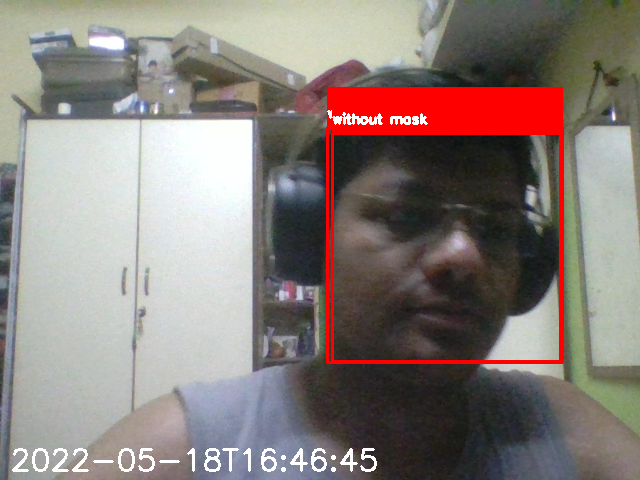
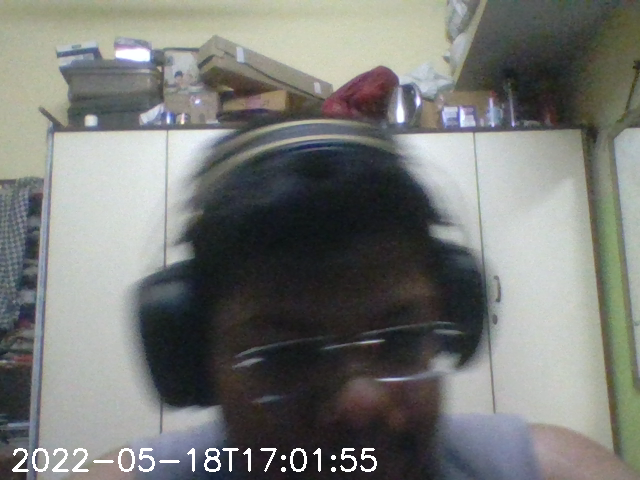
added mask and face counting

diff --git a/utils.py b/utils.py
@@ -2,6 +2,7 @@ import cv2
 import numpy as np
 import datetime
 from keras.models import load_model
+from PIL import Image, ImageDraw
 model = load_model("./model2-008.model")
 face_cascade = cv2.CascadeClassifier("./haarcascade_frontalface_alt2.xml")
 
@@ -12,17 +13,18 @@ size = 1
 
 
 def analyze(im):
-    im = cv2.flip(im, 1, 1)
+    # im = cv2.flip(im, 1, 1)
     mini = cv2.resize(
         im, (im.shape[1] // size, im.shape[0] // size))
     faces = face_cascade.detectMultiScale(mini)
     bottomLeftCornerOfText = (10, im.shape[0]-10)
-    fontScale = 1
+    fontScale = 0.5
     fontColor = (255, 255, 255)
     lineType = 2
+    timeFlag = datetime.datetime.now().isoformat().split("T")
     font = cv2.FONT_HERSHEY_SIMPLEX
-    cv2.putText(im, datetime.datetime.now().isoformat().split(".")[
-                0], bottomLeftCornerOfText, font, fontScale, fontColor, lineType)
+    mask_count = 0
+
     for f in faces:
         (x, y, w, h) = [v * size for v in f]
         face_img = im[y:y+h, x:x+w]
@@ -32,8 +34,16 @@ def analyze(im):
         reshaped = np.vstack([reshaped])
         result = model.predict(reshaped)
         label = np.argmax(result, axis=1)[0]
+        if label == 1:
+            mask_count += 1
         cv2.rectangle(im, (x, y), (x+w, y+h), color_dict[label], 2)
         cv2.rectangle(im, (x, y-40), (x+w, y), color_dict[label], -1)
-        cv2.putText(im, labels_dict[label], (x, y-10),
+        cv2.putText(im, labels_dict[label]+" , "+str(result[0][1]), (x+40, y-10),
                     font, 0.45, (255, 255, 255), 2)
+    cv2.putText(im, timeFlag[0] + " " + timeFlag[1].split(".")[0],
+                bottomLeftCornerOfText, font, fontScale, fontColor, lineType)
+    cv2.putText(im, "Faces: " + str(len(faces)),
+                (im.shape[1]-80, im.shape[0]-30), font, fontScale, fontColor, lineType)
+    cv2.putText(im, "Masks: " + str(mask_count),
+                (im.shape[1]-80, im.shape[0]-10), font, fontScale, fontColor, lineType)
     return im

diff --git a/capture.py b/capture.py
@@ -6,13 +6,6 @@ from utils import analyze
 
 
 def capture_and_save(im):
-    # font = cv2.FONT_HERSHEY_SIMPLEX
-    # bottomLeftCornerOfText = (10, s[0]-10)
-    # fontScale = 1
-    # fontColor = (20, 20, 20)
-    # lineType = 2
-    # cv2.putText(im, datetime.datetime.now().isoformat().split(".")[
-    #             0], bottomLeftCornerOfText, font, fontScale, fontColor, lineType)
     im=analyze(im)
     m = 0
     p = Path("images")

diff --git a/server.py b/server.py
@@ -8,7 +8,6 @@ import logging.config
 import conf
 import os
 from werkzeug.utils import secure_filename
-
 logging.config.dictConfig(conf.dictConfig)
 logger = logging.getLogger(__name__)
 UPLOAD_FOLDER = 'static/uploads/'
